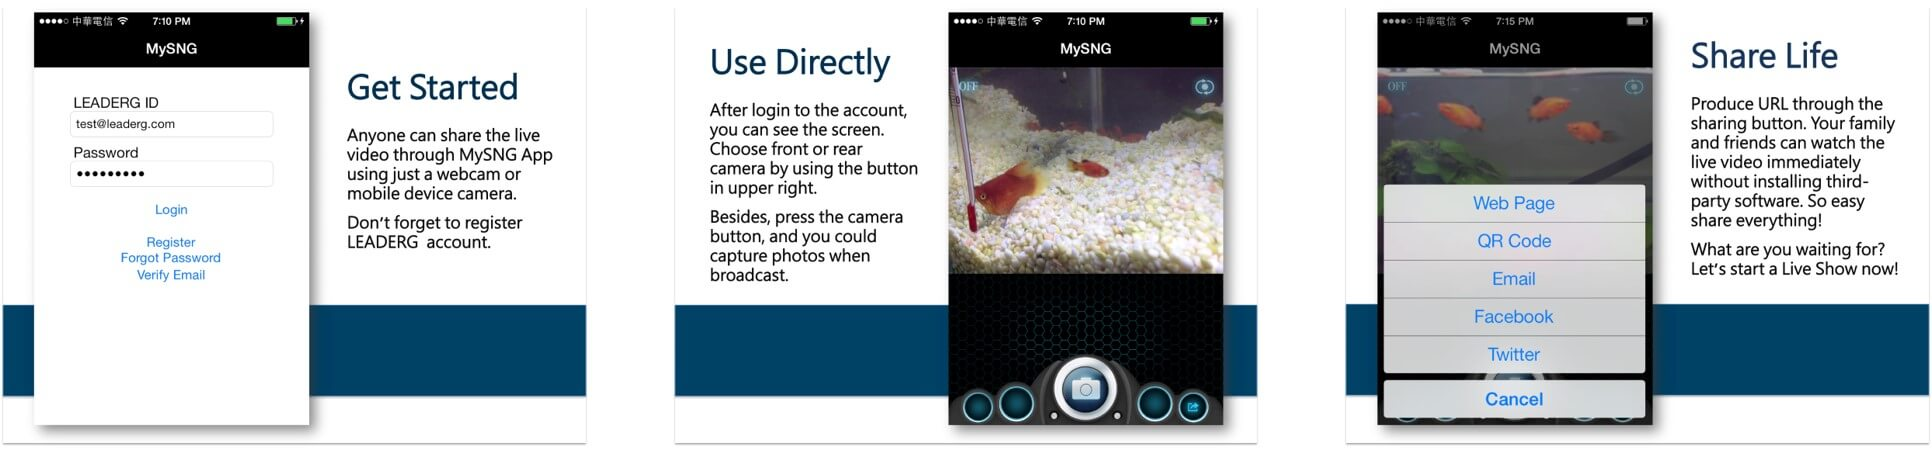
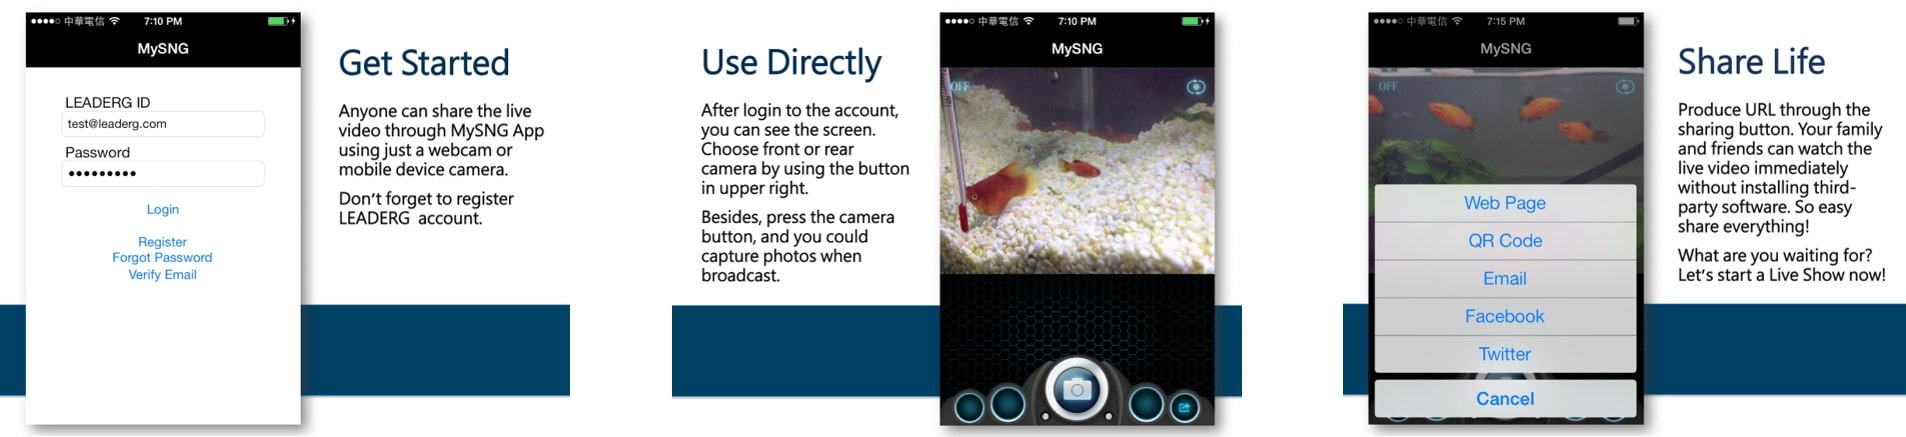
v1.6.2 Add mark and update images

diff --git a/tpsp.html b/tpsp.html
@@ -73,11 +73,11 @@
                 </div>
                 <div class="box">
                     <div class="col-lg-12">
-                        <h2>Problem Definition</h2>
+                        <h2>Challenges</h2>
                         <h5>
                             The pandemic has already had a significant impact on business operations since early 2020, with production and supply chain services being disrupted or suspended due to worker shortages and government policies related to business lockdowns. To minimize the impact on business, it is crucial to closely monitor the latest pandemic news, implement relevant prevention measures, and have updated risk response plans across all working facilities.<br><br>
 
-                            Foxconn's headquarter has announced a program to monitor the COVID-19 situation across all global sites, and each regional group has a commander to oversee local offices and facilities. A VP has been appointed as the commander to monitor all sites in Texas and report to the HQ weekly. A Task Force Team (TFT) has been organized to execute the COVID-related responses to support the VP. The challenge remains to execute the response plan efficiently without overburdening the TFT members or investing significant additional resources during times of uncertainty.<br><br>
+                            Foxconn's headquarter has announced a program <mark>to monitor the COVID-19 situation</mark> across all global sites, and each regional group has a commander to oversee local offices and facilities. A VP has been appointed as the commander to monitor all sites in Texas and report to the HQ weekly. A Task Force Team (TFT) has been organized to execute the COVID-related responses to support the VP. The challenge remains to execute the response plan efficiently without overburdening the TFT members or investing significant additional resources during times of uncertainty.<br><br>
 
                             The problem at hand is how to efficiently execute the COVID-related response plan for Foxconn sites in Texas without increasing the workload of the TFT members or investing significant additional resources during times of uncertainty caused by COVID-19. 
                         </h5><br><br>
@@ -103,27 +103,27 @@
                 <div class="box">
                     <div class="col-lg-12">
                         <h2>Proposed System</h2>
-                        <h5>The proposed system is named Texas Prevention and Safety Portal (TPSP), a Foxconn internal website to support TFT projects. The system will have the following functionalities<br><br>
+                        <h5>The proposed system is named <mark>Texas Prevention and Safety Portal (TPSP)</mark>, a Foxconn internal website to support TFT projects. The system will have the following functionalities<br><br>
                             <ol>
-                                <li><b>Bulletin</b> - a bulletin board for the latest COVID-19 information and local news.
+                                <li><mark>Bulletin</mark> - a bulletin board for the latest COVID-19 information and local news.
                                     <ul>
                                         <li>It will enable users to view available information and posts.</li>
                                         <li>It will allow TFT members to add, update, and delete contents from the database.</li>
                                     </ul>   
                                 </li>
-                                <li><b>Audit</b> - a self-audit system to report COVID-19 prevention checklists weekly for each zone across all Texas sites.
+                                <li><mark>Audit</mark> - a self-audit system to report COVID-19 prevention checklists weekly for each zone across all Texas sites.
                                     <ul>
                                         <li>It will allow permitted users to fill out surveys and submit results.</li>
                                         <li>It will enable permitted users to view results and history data.</li>
                                         <li>It will allow TFT members to download and analyze raw data.</li>
                                     </ul> 
                                 </li>
-                                <li><b>EHS Community</b> - a library to share EHS-related documents.
+                                <li><mark>EHS Community</mark> - a library to share EHS-related documents.
                                     <ul>
                                         <li>It will allow permitted users to view, add, update, and delete documents by different levels</li>
                                     </ul> 
                                 </li>
-                                <li><b>Situation Room</b> - an online conference room for internal commanders to communicate confidential topics.
+                                <li><mark>Situation Room</mark> - an online conference room for internal commanders to communicate confidential topics.
                                     <ul>
                                         <li>It will allow users to join online meetings and operate live video calls.</li>
                                     </ul> 
@@ -137,7 +137,7 @@
                     <div class="col-lg-12">
                         <h2>My Role</h2>
                         <h5>
-                            As a product manager in the TFT, I was tasked with creating and launching a website within a two-week deadline due to the COVID-19 surge. In addition to my managerial duties, I also took on responsibilities for UI design and front-end development.
+                            As a <mark>product manager</mark> in the TFT, I was tasked with creating and launching a website within a two-week deadline due to the COVID-19 surge. In addition to my managerial duties, I also took on responsibilities for UI design and front-end development.
                         </h5><br><br>                        
                     </div>
                 </div>
@@ -146,11 +146,11 @@
                         <h2>Key Takeaways</h2>
                         <h5>
                             <ul>
-                                <li>Applied Agile software development methods to release each feature every 2-3 days
+                                <li>Applied Agile software development methods to release each feature every 2-3 days.
                                 </li>
-                                <li>Further developed my knowledge of SQL and designed questionnaires</li>
-                                <li>Implemented the Bootstrap framework to create MVP and iterations</li>
-                                <li>Collaborated with 10+ sites across Texas to extract relevant information and documents for sharing</li>
+                                <li>Further developed my knowledge of SQL and designed questionnaires.</li>
+                                <li>Implemented the Bootstrap framework to create MVP and iterations.</li>
+                                <li>Collaborated with 10+ sites across Texas to extract relevant information and documents for sharing.</li>
                             </ul>
                         </h5>
                     </div>

diff --git a/tugamobi_sa_series.html b/tugamobi_sa_series.html
@@ -65,8 +65,9 @@
             <div class="row">
                 <div class="box">
                     <div class="col-lg-12">
-                        <h5 style="text-align:center">
-                            tugamobi is an American brand to provide the latest wearable and fitness devices. Flagship products include SA (Stereo Audio) series and SB (Smart Band) series.
+                        <h2>Brand</h2>
+                        <h5>
+                            tugamobi is an American brand that specializes in providing the latest wearable and fitness devices. The flagship product lines include <mark>Stereo Audio (SA) series</mark> and <mark>Smart Band (SB) series</mark>, designed to cater to the needs of fitness enthusiasts and individuals seeking to track and monitor their health and wellness.
                         </h5>
                     </div>
                     <div class="col-lg-12">
@@ -77,9 +78,9 @@
                     <div class="col-lg-12">
                         <h2>Product</h2>
                         <h5>
-                            Due to the boom in the fitness trend, the wearables market has been steadily increasing. Product types in the market include smartwatches, fitness trackers, earbuds, wellness devices, etc. tugamobi decided to launch a new product line to expand offers with different fitness-related accessories for existing customers and new audiences. <br><br>
+                            The wearables market has experienced a steady rise in demand, fueled by the popularity of the fitness trend. With a range of products available, including smartwatches, fitness trackers, earbuds, wellness devices, and more, tugamobi recognized an opportunity to capitalize on this growing market by expanding its product line with a new range of fitness-related accessories.<br><br>
 
-                            After conducting market research and collecting feedback from target audiences, SA series was born. In 2020, SA01 was launched and SA02 entered the market in the following year. 
+                            The SA series was born after extensive market research and feedback collection from target audiences, with the SA01 launched in 2020 and the SA02 following the next year.
                         </h5>
                         <img class="img-responsive img-80full" src="images/TGMB/TGMB_Sub.png" alt=""> <br><br>
                     </div>
@@ -88,20 +89,26 @@
                     <div class="col-lg-12">
                         <h2>My Role</h2>
                         <h5>
-                            I played a role as a product manager and collaborated closely with tugamobi team consisted of a VP, an account manager, and 4 e-commerce team members. I built a go-to-market strategy and conducted market research to define product roadmap and specifications. Moreover, I was in charge of designing product packages and communicating with electronics vendors from abroad to ship products to USA on schedule.
+                            I played a role as a <mark>product manager</mark> and collaborated closely with tugamobi team consisted of a VP, an account manager, and 4 e-commerce team members. 
+                            <ul>
+                                <li>Conducted market research to define product roadmap and specifications.</li>
+                                <li>Developed a go-to-market strategy.</li>
+                                <li>Designed product packages and campaign materials.</li>
+                                <li>Communicated with electronics vendors from abroad to ensure timely shipment of products to USA.</li>
+                            </ul>
                         </h5>
                         <img class="img-responsive img-80full" src="images/TGMB/TGMB_PackageDesign.png" alt=""><br><br>
                     </div>
                 </div>
                 <div class="box">
                     <div class="col-lg-12">
-                        <h2>Key Takeaways</h2>
+                        <h2>Results</h2>
                         <h5>
                             <ul>
-                                <li>Shipped products from 0 to 1</li>
-                                <li>Improved package design and relevant labels to optimize fulfillment process time</li>
-                                <li>Enhanced aesthetics of package design and marketing campaigns from analyzing potential competitors design</li>
-                                <li>Learned and implemented KPIs of supply chain management (SCM) and fulfillment operations such as Days of Supply (DOS) and On-time Shipping Indicator</li>
+                                <li>Successfully shipped products from concept to launch.</li>
+                                <li>Optimized fulfillment process time by improving package design and relevant labels.</li>
+                                <li>Analyzed the design of potential competitors and enhanced the aesthetics of package design and marketing campaigns.</li>
+                                <li>Implemented supply chain management (SCM) and fulfillment operation KPIs such as Days of Supply (DOS) and On-time Shipping Indicator to improve efficiency and productivity.</li>
                             </ul>
                         </h5>
                     </div>

diff --git a/usmartmobi.html b/usmartmobi.html
@@ -79,7 +79,7 @@
                         <h5>
                             usmartmobi is an e-commerce platform for buying and selling new and used tech products. It's built to provide end users the best and eco-friendly choice. <br><br>
 
-                            The complete vision for the platform is made up of two major aspects – e-commerce and ecosystem. The e-commerce section offers users the ability to buy and sell tech products, while the trade-in feature encourages users to recycle their own devices during the check-out process. The ecosystem section provides users with tech-related information to help them make informed decisions about which product or service is best for them. The media room and repair info are the first two features launched in the initial stage.
+                            The complete vision for the platform is made up of two major aspects – <mark>e-commerce</mark> and <mark>ecosystem</mark>. The e-commerce section offers users the ability to buy and sell tech products, while a <mark>trade-in feature</mark> encourages users to recycle their own devices during the check-out process. The Ecosystem section is designed to provide users with relevant tech-related information to help them make informed decisions about the best product or service for their needs. As part of the initial stage of development, <mark>Media Room</mark> and <mark>Repair Info</mark> features were launched first. These features aim to enhance the user experience by providing comprehensive media coverage and easy access to repair information.
                         </h5>
                         <img class="img-responsive img-80full" src="images/UMM/umm_eco.png" alt=""> <br><br>
                     </div>
@@ -88,7 +88,7 @@
                     <div class="col-lg-12">
                         <h2>My Role</h2>
                         <h5>
-                            As the Product Manager, I collaborated closely with the VP, the EC account manager, and cross-functional teams throughout the entire product development process, from ideation to launch. My responsibilities included defining project scopes, creating plans, leading UX/UI design efforts through user research, user flow diagrams, and wireframes, overseeing project management, and conducting user acceptance testing (UAT) to ensure a successful launch.
+                            As a <mark>product manager</mark>, I collaborated closely with the VP, the EC account manager, and cross-functional teams throughout the entire product development process, from ideation to launch. My responsibilities included defining project scopes, creating plans, leading UX/UI design efforts through user research, user flow diagrams, and wireframes, overseeing project management, and conducting user acceptance testing (UAT) to ensure a successful launch.
                         </h5>
                         <img class="img-responsive img-80full" src="images/UMM/umm_UI.png" alt=""><br><br>
                     </div>
@@ -98,11 +98,11 @@
                         <h2>Key Takeaways</h2>
                         <h5>
                             <ul>
-                                <li>Created user flow diagrams to illustrate information flow, physical product flow, and customer experience with the development team and the operations team</li>
-                                <li>Learned UX/UI techniques like Figma to visually support the requirements and prioritize features</li>
-                                <li>Practiced knowledge of system design basics, including domain name assigned, API integrations, traffic estimations, and cloud computing platforms</li>
-                                <li>Increased communication and transparency through team members and managed a remote development team by adopting the tools like Slack and Asana</li>
-                                <li>Analyzed trade-offs to balance completion and perfection to stay on a tight schedule</li>
+                                <li>Created user flow diagrams to illustrate information flow, physical product flow, and customer experience with the development team and the operations team.</li>
+                                <li>Learned UX/UI techniques like Figma to visually support the requirements and prioritize features.</li>
+                                <li>Practiced knowledge of system design basics, including domain name assigned, API integrations, traffic estimations, and cloud computing platforms.</li>
+                                <li>Increased communication and transparency through team members and managed a remote development team by adopting the tools like Slack and Asana.</li>
+                                <li>Analyzed trade-offs to balance completion and perfection to stay on a tight schedule.</li>
                             </ul>
                         </h5>
                     </div>

diff --git a/mysng.html b/mysng.html
@@ -65,9 +65,7 @@
             <div class="row">
                 <div class="box">
                     <div class="col-lg-12">
-                        <div class="col-lg-12">
-                            <img class="img-responsive img-80full" src="images/MSNG/MSNG_step.jpg" alt=""> <br><br>
-                        </div>
+                        <img class="img-responsive img-80full" src="images/MSNG/MSNG_main.jpg" alt=""> 
                         <h2>Company</h2>
                         <h5>
                             LEADERG is an AI robotics company that specializes in the development of AI software, computers, and robots. The company has developed its own product lines since 2014.
@@ -77,14 +75,15 @@
                             MySNG is LEADERG's first B2C product - a live streaming platform that's available on Windows, iOS, and Android. The platform enables users to broadcast live videos to friends and the public. In collaboration with animal shelters and veterinary hospitals, LEADERG launched a campaign to promote the awareness and adoption of stray animals using MySNG's video streaming service. This service allows for the instant display of interactions between stray animals and shelter volunteers, increasing the animals' chances of finding a forever home.
                         </h5>
                     </div>
-
-                    
+                    <div class="col-lg-12">
+                        <img class="img-responsive img-80full" src="images/MSNG/MSNG_step.jpg" alt=""> <br>
+                    </div>
                 </div>
                 <div class="box">
                     <div class="col-lg-12">
                         <h2>My Role</h2>
                         <h5>
-                            As a project planner, my role was to support product launch events and product improvement. I was responsible for planning launch campaigns, testing product prototypes, and creating product instructions and requirements documentation.
+                            As a <mark>project planner</mark>, my role was to support product launch events and product improvement. I was responsible for planning launch campaigns, testing product prototypes, and creating product instructions and requirements documentation.
                             <ul>
                                 <li>Collaborated with various stakeholders, including the CEO, development teams, and external clients to ensure that product launches were successful and met customer needs.</li>
                                 <li>Gathered feedback from users and clients to improve the product. This involved conducting surveys, focus groups, and user testing to understand how customers were using the product and what improvements could be made.</li>
@@ -99,8 +98,8 @@
                         <h2>Results</h2>
                         <h5>
                             <ul>
-                                <li>Organized crowdfunding campaign on the top Taiwanese platform - 104 Crowdfunding and raised over 130% of the target funding, including sponsored presentation opportunity in Silicon Valley</li>
-                                <li>Appointed by the CEO to visit venture capitalists, startups, and business incubators in Silicon Valley to study startup ecosystem in the U.S. and attract foreign investment
+                                <li>Organized crowdfunding campaign on the top Taiwanese platform - 104 Crowdfunding and raised over 130% of the target funding, including sponsored presentation opportunity in Silicon Valley.</li>
+                                <li>Appointed by the CEO to visit venture capitalists, startups, and business incubators in Silicon Valley to study startup ecosystem in the U.S. and attract foreign investment.
                                 </li>
                             </ul>
                         </h5>

diff --git a/rmml_websites.html b/rmml_websites.html
@@ -79,12 +79,12 @@
                         <ol>
                             <li>
                                 <h5>
-                                    <b>RMML Homepage</b>: the page is designed to attract talented students and researchers who are interested in joining the lab. It includes the latest lab news, academic projects, and introductions to core team members, which provides visitors with a comprehensive understanding of RMML's mission and values. 
+                                    <mark>RMML Homepage</mark>: the page is designed to attract talented students and researchers who are interested in joining the lab. It includes the latest lab news, academic projects, and introductions to core team members, which provides visitors with a comprehensive understanding of RMML's mission and values. 
                                 </h5>
                             </li>
                             <li>
                                 <h5>
-                                    <b>POINT Robotics Landing Page</b>: The purpose of this landing page is to attract professionals who are interested in joining the startup team. The page provides a brief overview of the startup's mission and values, as well as information on current job openings and how to get in touch with the team. By providing this information in a concise and easy-to-navigate format, the team are able to attract top talent and encourage them to apply to join POINT Robotics.
+                                    <mark>POINT Robotics Landing Page</mark>: The purpose of this landing page is to attract professionals who are interested in joining the startup team. The page provides a brief overview of the startup's mission and values, as well as information on current job openings and how to get in touch with the team. By providing this information in a concise and easy-to-navigate format, the team are able to attract top talent and encourage them to apply to join POINT Robotics.
                                 </h5>
                             </li>
                         </ol>
@@ -94,11 +94,11 @@
                     <div class="col-lg-12">
                         <h2>My Role</h2>
                         <h5>
-                            As a project manager and front-end developer, I played a crucial role in developing and maintaining the two websites:<br><br>
+                            As a <mark>project manager</mark> and <mark>front-end developer</mark>, I played a crucial role in developing and maintaining the two websites:<br><br>
                             <ul>
-                                <li>Defined project scopes, key features, and launch timeline for two talent recruitment websites</li>
-                                <li>Conducted UI design and front-end development for both websites, ensuring websites were visually appealing and easy to use</li>
-                                <li>Maintained websites and monitored traffic to identify areas for improvement</li>
+                                <li>Defined project scopes, key features, and launch timeline for two talent recruitment websites.</li>
+                                <li>Conducted UI design and front-end development for both websites, ensuring websites were visually appealing and easy to use.</li>
+                                <li>Maintained websites and monitored traffic to identify areas for improvement.</li>
                                 <li>Contributed to the success of the startup by attracting talented individuals to join RMML and POINT Robotics.</li>
                             </ul>
                         </h5>

diff --git a/rmml_startup_operations.html b/rmml_startup_operations.html
@@ -71,14 +71,14 @@
                     <div class="col-lg-12">
                         <h2>Product</h2>
                         <h5>
-                            The team's first product is an intelligent surgical system that includes navigation software and an intelligent handheld robot. The system is designed to achieve auto-tracking of the surgical tool and suppress tremors from the operator, providing unique ease-of-use features for minimally invasive spine surgery.<br><br>
+                            The team's first product is an intelligent surgical system that includes <mark>navigation software</mark> and <mark>an intelligent handheld robot</mark>. The system is designed to achieve auto-tracking of the surgical tool and suppress tremors from the operator, providing unique ease-of-use features for minimally invasive spine surgery.<br><br>
                         </h5>
                     </div>
                 </div>
                 <div class="box">
                     <div class="col-lg-12">
                         <h2>My Role</h2>
-                        <h5>As an operations and project manager, my responsibilities were: <br><br>
+                        <h5>As an <mark>operations and project manager</mark>, my responsibilities were: <br><br>
                             <ul>
                                 <li>Raised funds for the startup by presenting to venture capitalists and angel investors, such as the Ministry of Science and Technology, Johnson & Johnson, and PwC in Taiwan.</li>
                                 <li>Worked with the founder, a vice president at PwC, and business managers at the Taiwan Supra Integration and Incubation Center (Si2C) to establish step-by-step business strategic and financial planning.</li>

diff --git a/pm_framework_design.html b/pm_framework_design.html
@@ -77,7 +77,7 @@
                     <div class="col-lg-12">    
                         <h5>
                             The case study focuses on the RMML startup team, which faces common challenges encountered by new firms in the field of robotic surgery. By understanding the team's situation and resources, a plan template is provided that helps to define and plan the project. This allows the team to see an overview of the project and ensures everyone is on the same page.<br><br>
-                            The plan template focuses on two of three project management functions: definition and planning. During the definition stage, issues are framed, which helps to get the team speaking the same language. During the planning stage, details are analyzed by breaking down the activities and linking the relationships of each task. The project manager and team can allocate resources and monitor the schedule based on the plan.<br><br>
+                            The plan template focuses on two of three project management functions: <mark>definition</mark> and <mark>planning</mark>. In the definition stage, the template helps to frame issues and get the team aligned in terms of language and understanding. In the planning stage, the template allows for a detailed analysis of the project by breaking down activities and establishing relationships between tasks. The project manager and team can allocate resources and monitor the schedule based on the plan.<br><br>
                             This project is intended for entrepreneurs who are starting new companies and need help running them effectively and efficiently.<br><br>
                         </h5>
                     </div>

diff --git a/index.html b/index.html
@@ -93,7 +93,7 @@
                     <div class="col-md-6 col-lg-6">
                         <h2>About</h2>
                         <h5>
-                            I am Hang-Tien, a <b>project & product manager</b> originally from Taiwan currently based in the United States. With a background in <b>mechatronics engineering</b>, I am well-versed in both software and hardware product development. Through my experiences working with tech startups and global companies, I have developed a mindset that balances innovative and pragmatic thinking, allowing me to navigate uncertainty and provide effective solutions.
+                            I am Hang-Tien, a <mark>project & product manager</mark> originally from Taiwan currently based in the United States. With a background in <mark>mechatronics engineering</mark>, I am well-versed in both software and hardware product development. Through my experiences working with <mark>tech startups</mark> and <mark>global companies</mark>, I have developed a mindset that balances innovative and pragmatic thinking, allowing me to navigate uncertainty and provide effective solutions.
                         </h5>
                         <h5>
                             I am currently seeking opportunities to collaborate with exceptional individuals and teams in a dynamic and innovative tech culture. If you believe that I would be a strong addition to your team, please do not hesitate to reach out to me!

diff --git a/microsoft_dogfooding_events.html b/microsoft_dogfooding_events.html
@@ -74,8 +74,8 @@
                         <h2>Products</h2>
                         <h5>
                             <ul>
-                                <li>Windows 8, succeeding Windows 7, was introduced major changes to the platform and user interface including a new start screen, Microsoft app ecosystem, and touch-friendly design.</li>
-                                <li>Office 2013, the successor to Microsoft Office 2010, supports online services and multi-touch interfaces.</li>
+                                <li><mark>Windows 8</mark>, succeeding Windows 7, was introduced major changes to the platform and user interface including a new start screen, Microsoft app ecosystem, and touch-friendly design.</li>
+                                <li><mark>Office 2013</mark>, the successor to Microsoft Office 2010, supports online services and multi-touch interfaces.</li>
                             </ul>
                         </h5>
                         <img class="img-responsive img-80full" src="images/MS/MS_main.png" alt=""><br><br>

diff --git a/css/theme.css b/css/theme.css
@@ -128,8 +128,6 @@ textarea {
 
 .img-80full {
     width: 100%;
-    height: 100%;
-    object-fit: cover;
     position: relative;
 
 }
@@ -147,6 +145,24 @@ textarea {
     background: #fff;
     background: rgba(255,255,255,0.9);
 }
+
+mark {
+	margin: 0em -0.2em;
+	padding: 0.1em 0.2em;
+	border-radius: 0.8em 0.3em;
+	background: transparent;
+	background-image: linear-gradient(
+		0deg,
+		rgba(0, 137, 167, 0) 0%,
+		rgba(0, 137, 167, 0) 30%,
+		rgba(0, 137, 167, 0.3) 30%,
+		rgba(0, 137, 167, 0.2) 55%,
+		rgba(0, 137, 167, 0) 55%,
+ 		rgba(0, 137, 167, 0) 100%
+	  );
+	-webkit-box-decoration-break: clone;
+	box-decoration-break: clone;
+  }
 
 /*-------------------------------------------------
 	Toggle Menu
